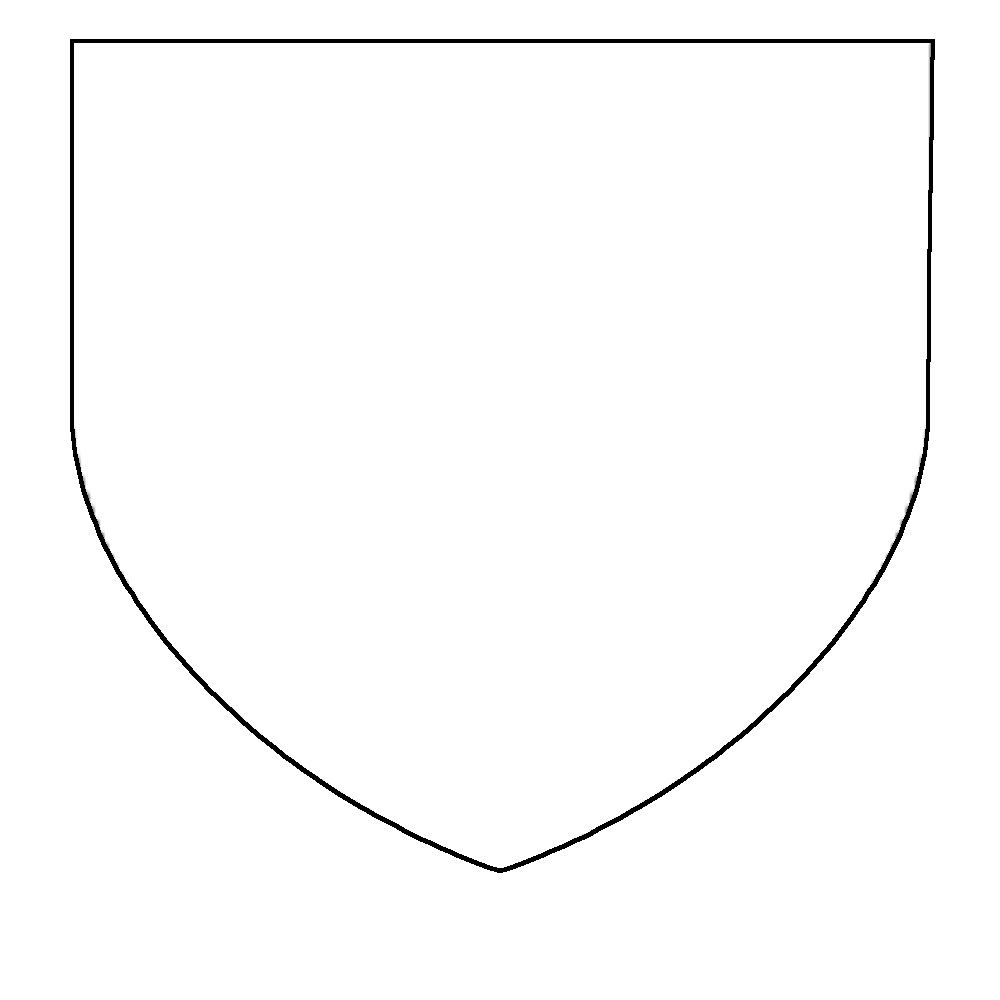
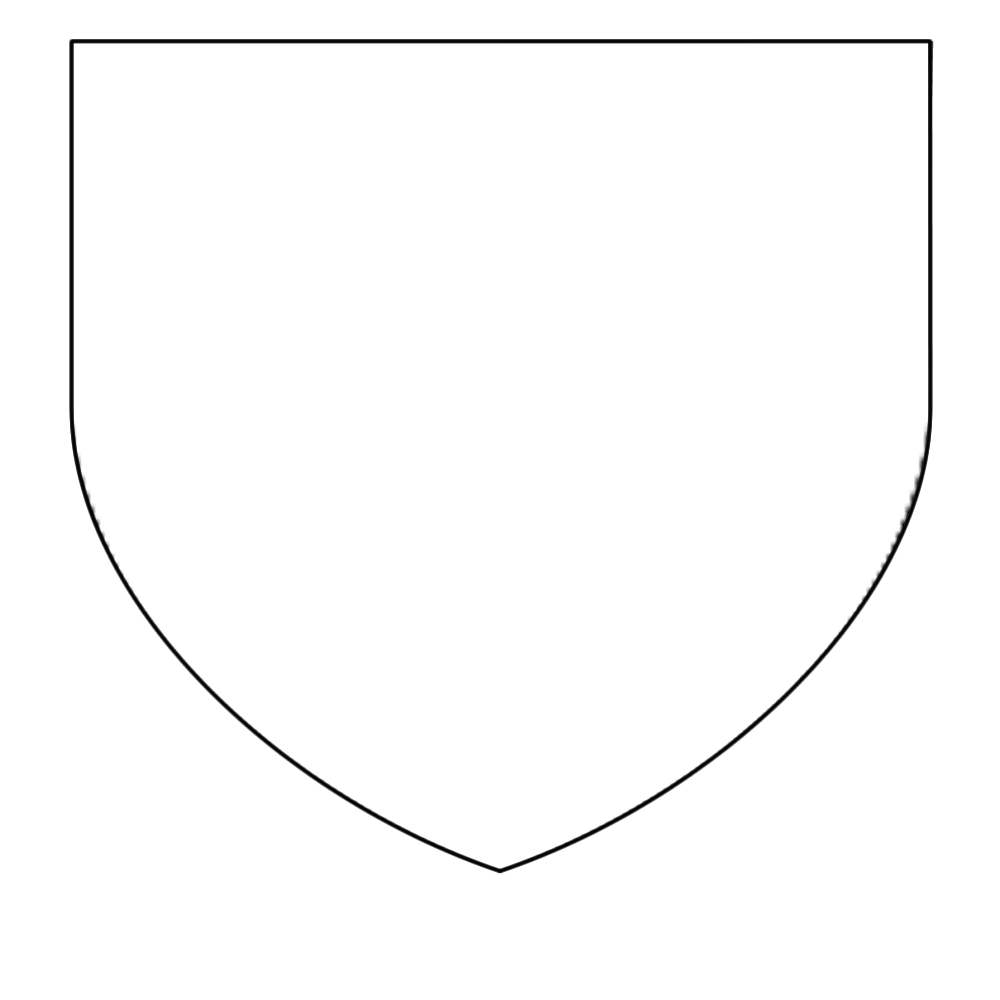
checky and lozengy

diff --git a/field_geometries.py b/field_geometries.py
@@ -38,8 +38,8 @@ def get_barry_boundaries(n):
         # fudge factor because the bottom margin is so large
         # +kMargin means the first tincture will always be visible first
         fudge_factor = 0.85
-        top_edge = int(kScreenHeight*i/n*fudge_factor+kMargin) 
-        bottom_edge = int(kScreenHeight*(i+1)/n*fudge_factor+kMargin)
+        top_edge = int(kScreenHeight*i/n*fudge_factor+kYMargin) 
+        bottom_edge = int(kScreenHeight*(i+1)/n*fudge_factor+kYMargin)
         boundary_sections.append(
             [[0, top_edge], [kScreenWidth, top_edge],
              [kScreenWidth, bottom_edge], [0, bottom_edge]])
@@ -224,9 +224,9 @@ def get_per_chevron_throughout_field(tinctures):
     if len(tinctures) != 2:
         print ("A per chevron throughout field must have exactly two tinctures.")
         return Device("")
-    chief_boundary = [[0,0], [0, kScreenHeight], [int(kScreenWidth/2), kMargin],
+    chief_boundary = [[0,0], [0, kScreenHeight], [int(kScreenWidth/2), kYMargin],
                              [kScreenWidth, kScreenHeight], [kScreenWidth, 0]]
-    base_boundary = [[0, kScreenHeight], [int(kScreenWidth/2), kMargin],
+    base_boundary = [[0, kScreenHeight], [int(kScreenWidth/2), kYMargin],
                      [kScreenWidth, kScreenHeight]]
     chief_section = FieldSection(chief_boundary, tincture = tinctures[0])
     base_section = FieldSection(base_boundary, tincture = tinctures[1])
@@ -388,3 +388,74 @@ def get_gyronny_field(num_sections, tinctures, horizontal=False):
                      int(y_points[(i+1) % num_sections]+center[1])]]
         sections.append(FieldSection(boundary, tincture=tinctures[(i+1) % len(tinctures)]))
     return Device("", sections)
+
+def get_checky_field(num_sections, tinctures):
+    '''
+    Returns a Device with a checky field.
+    num_sections: the number of individual boxes across the top of the shield.
+     This is distinct from the total number of boxes on the shield and may be less
+     than the number of boxes in the longest vertical column.
+    tinctures: A list of exactly two tinctures; the first one 
+     will be used in the dexter chief corner.
+    '''
+    if len(tinctures) != 2:
+        print("A checky field must have exactly 2 tinctures.")
+        return Device("")
+    side_length = int((kScreenWidth-2*kXMargin)/num_sections)
+    if side_length < 30:
+        print("Warning: that many sections won't work well on this size of screen. Consider using fewer.")
+    sections = []
+    cur_x = kXMargin
+    cur_y = kYMargin
+    cur_tincture = 0
+    next_row_start_tincture = 1
+    while True:
+        boundary = [[cur_x, cur_y], [cur_x, cur_y + side_length],
+                    [cur_x + side_length, cur_y + side_length], [cur_x + side_length, cur_y]]
+        sections.append(FieldSection(boundary, tincture=tinctures[cur_tincture]))
+        cur_x += side_length
+        cur_tincture = (cur_tincture+1) % 2
+        if cur_x > kScreenWidth - kXMargin + side_length:
+            cur_x = kXMargin
+            cur_y += side_length
+            cur_tincture = next_row_start_tincture
+            next_row_start_tincture = (next_row_start_tincture + 1) % 2
+        if cur_y >= kScreenHeight:
+            return Device("", sections)
+            
+def get_lozengy_field(num_sections, tinctures, proportion = 2):
+    '''
+    Returns a Device with a lozengy field.
+    num_sections: the number of individual lozenges across the top of the shield.
+     This is distinct from the total number of lozenges on the shield,
+    tinctures: A list of exactly two tinctures; the first one 
+     will be used in the initial row of bottom-halves.
+    proportion: the ratio of the lozenge height to the lozenge width. The default is 2,
+     for lozenges twice as tall as they are wide. Proportions < 1 may not look very good.
+    '''
+    if len(tinctures) != 2:
+        print("A lozengy field must have exactly 2 tinctures.")
+        return Device("")
+    width = int((kScreenWidth-2*kXMargin)/num_sections)
+    height = int(width * proportion)
+    if width < 30 or height < 30:
+        print("Warning: that many sections won't work well on this size of screen. Consider using fewer.")
+    sections = []
+    # [left, top, right, bottom]
+    start_x_points = [kXMargin, kXMargin + int(width/2), kXMargin + width, kXMargin + int(width/2)]
+    x_points = list(start_x_points)
+    y_points =[kYMargin, kYMargin - int(height/2), kYMargin, kYMargin + int(height/2)]
+    cur_tincture = 0
+    while True:
+        boundary = [[x_points[i], y_points[i]] for i in range(4)]
+        sections.append(FieldSection(boundary, tincture=tinctures[cur_tincture]))
+        x_points = [x + width for x in x_points]
+        if x_points[0] >= (kScreenWidth - kXMargin):
+            x_points = start_x_points
+            # use the tincture to keep track of the offset between rows
+            if cur_tincture == 0:
+                x_points = [int(x - width/2) for x in x_points]
+            y_points = [int(y + height/2) for y in y_points]
+            cur_tincture = (cur_tincture + 1) % 2
+            if y_points[1] >= kScreenHeight:
+                return Device("", sections)

diff --git a/main.py b/main.py
@@ -41,4 +41,11 @@ field_geometries.get_gyronny_field(8, [kPurpure, kArgent]).display_device()
 field_geometries.get_gyronny_field(10, [kPurpure, kArgent]).display_device()
 field_geometries.get_gyronny_field(10, [kPurpure, kArgent], horizontal=True).display_device()
 field_geometries.get_gyronny_field(12, [kPurpure, kArgent]).display_device()
+# "Lots of little blocks" situations
+field_geometries.get_checky_field(8, [kPurpure, kArgent]).display_device() 
 '''
+field_geometries.get_lozengy_field(8, [kPurpure, kArgent]).display_device() 
+field_geometries.get_lozengy_field(20, [kPurpure, kArgent]).display_device() 
+field_geometries.get_lozengy_field(8, [kPurpure, kArgent], 1).display_device() 
+field_geometries.get_lozengy_field(8, [kPurpure, kArgent], 4).display_device()
+field_geometries.get_lozengy_field(8, [kPurpure, kArgent], 0.5).display_device()  

diff --git a/constants.py b/constants.py
@@ -7,6 +7,10 @@ kAzure = (0, 0, 255)
 kPurpure = (150, 50, 255)
 kScreenWidth = 1000
 kScreenHeight = 1000
-kMargin = int(kScreenWidth/25)
+# These margins depend on the shield mask.
+# If you replace the shield outline file, you may
+# need to change these values as well.
+kXMargin = 72
+kYMargin = 42
 
 #Consider also including the various art assets (geometric shapes, lions, etc) in this file.

diff --git a/README.md b/README.md
@@ -31,9 +31,9 @@ TODO: type hints
     * Gyronny 8
     * Gyronny 10
     * Gyronny 12
-  * TODO:
     * Checky
     * Lozengy
+  * TODO:
     * Fretty
     * Scaly
     * Masoned
